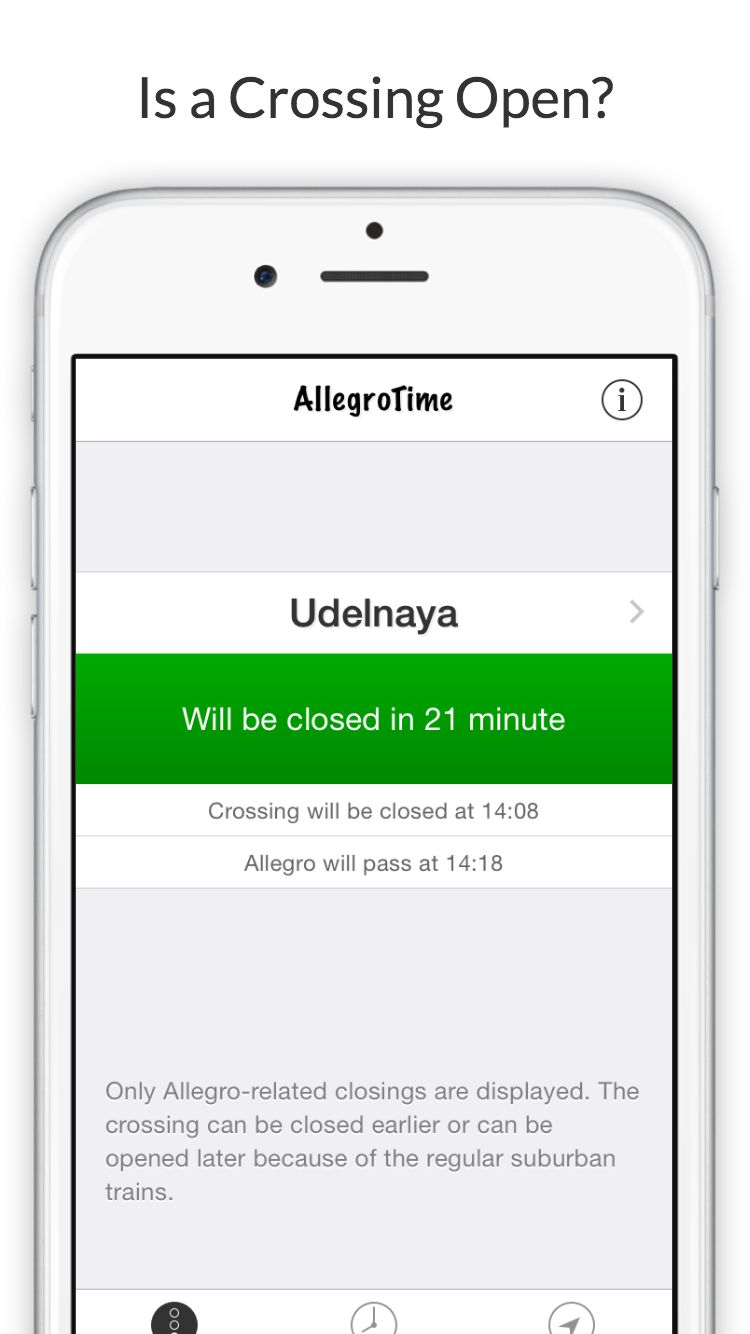
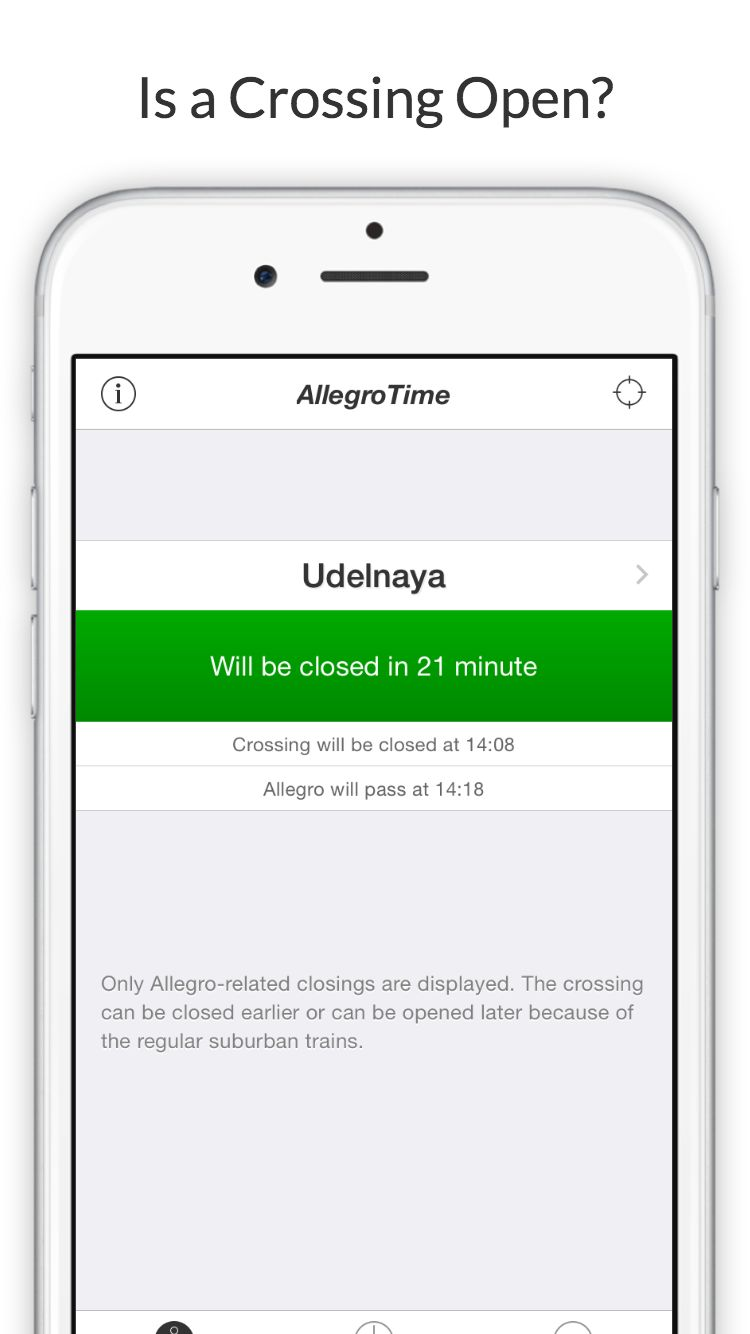
update title font and screenshots

diff --git a/app/controllers/status_view_controller.rb b/app/controllers/status_view_controller.rb
@@ -35,10 +35,8 @@ class StatusViewController < UIViewController
 
     titleLabel = UILabel.alloc.initWithFrame(CGRectZero)
     titleLabel.text = "main.title".l
-    titleLabel.font = UIFont.fontWithName('MarkerFelt-Thin', size: 17)
-    titleLabel.textColor = UIColor.colorWithWhite 0.50, alpha:1.00
-    # titleLabel.shadowColor = UIColor.colorWithWhite 0.85, alpha:1.00
-    # titleLabel.shadowOffset = CGSizeMake(1, 1)
+    titleLabel.font = UIFont.fontWithName('HelveticaNeue-BoldItalic', size: 17)
+    titleLabel.textColor = UIColor.grayShade 0.2
     titleLabel.sizeToFit
 
     navigationItem.titleView = titleLabel

diff --git a/app/models/globals.rb b/app/models/globals.rb
@@ -11,7 +11,7 @@ GAD_TESTING_IPAD_ID = 'e993311bb857d82d1b2df4a83f03101e'
 FLURRY_TOKEN = 'REDACTED'
 SIMULATOR = UIDevice.currentDevice.model == "iPhone Simulator"
 TRACKING = true
-ADVERTISEMENT = true
+ADVERTISEMENT = false
 TABLE_VIEW_HEADER_HEIGHT = 44
 
 NXDefaultCellIDClosestCrossingChanged = "NXDefaultCellIDClosestCrossingChangedNotification"

diff --git a/app/util/extensions_core.rb b/app/util/extensions_core.rb
@@ -23,8 +23,8 @@ class Time
       hours = nowParts.hour
       minutes = nowParts.minute
       hours * 60 + minutes
-      
       # 18*60 + 47
+      # 13*60 + 47
     end
   
     def time_till_full_minute
